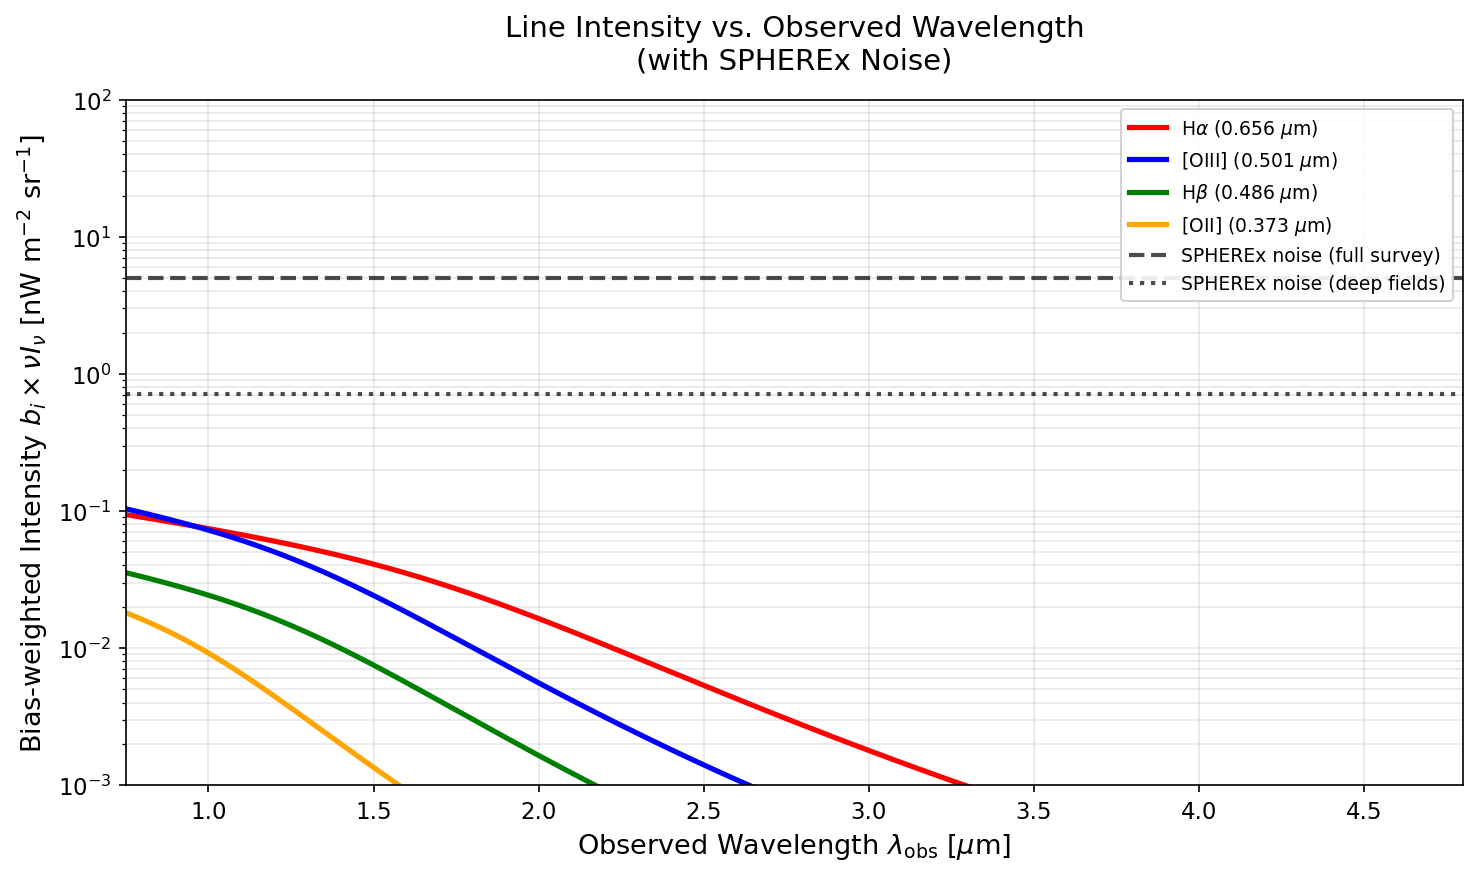
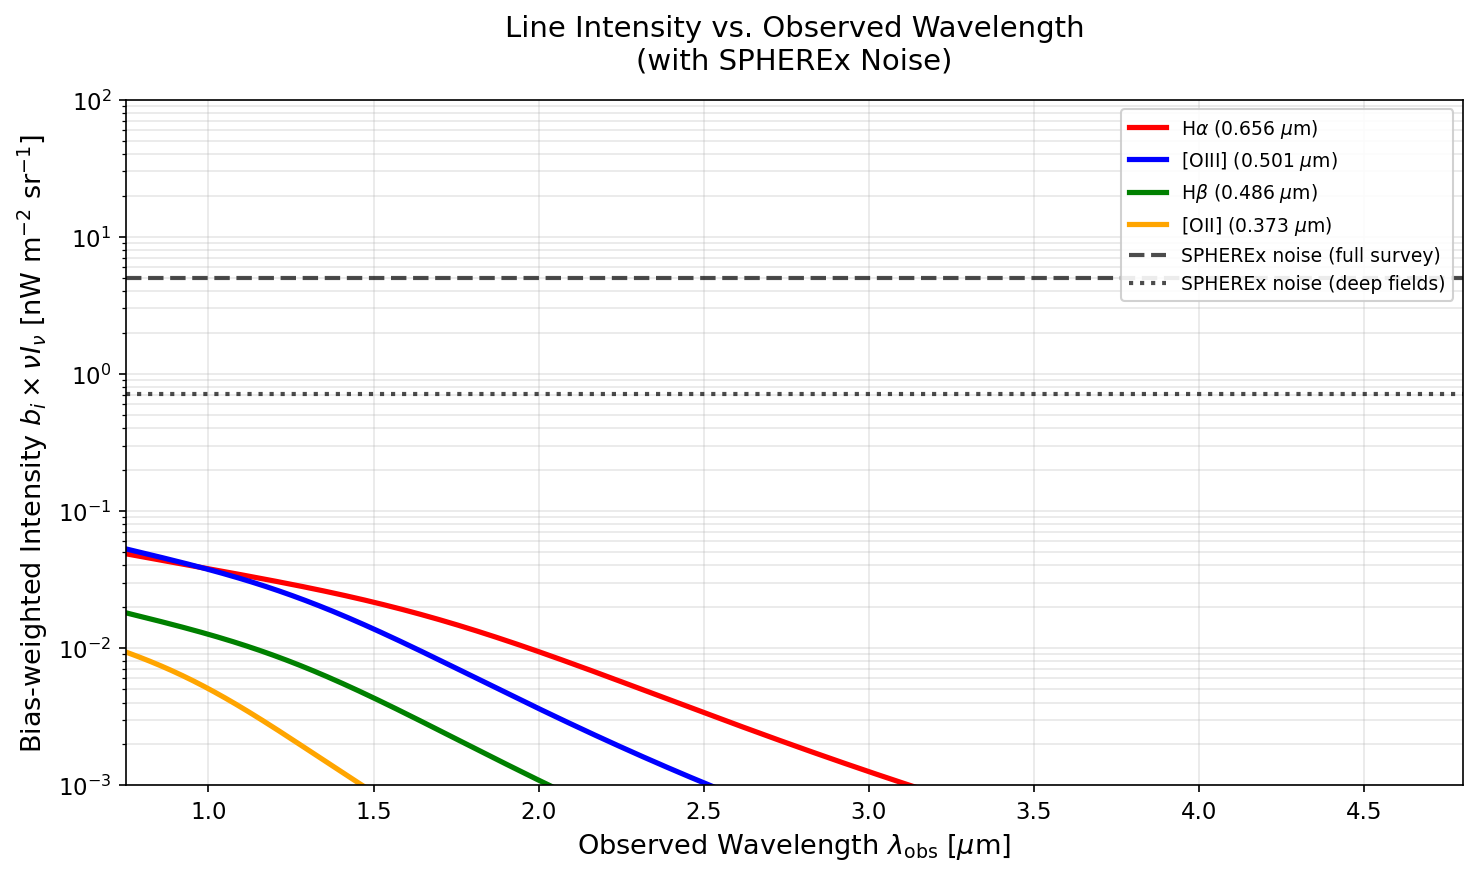
Replace bias approximation with full Sheth-Tormen calculation
- Implement halo-mass-weighted bias following Cheng et al. (2024) Eq. 19
- Use colossus library for Sheth-Tormen (1999) mass function
- Use Sheth, Mo & Tormen (2001) halo bias model
- Integrate over M = 10^10 to 10^16 M_sun/h using FoF mass definition
- Add colossus>=1.3.0 to requirements.txt

Results:
- Bias is smooth and monotonically increasing: b(z=0)=0.76 to b(z=6)=3.91
- All validation tests pass
- Updated figures match Cheng et al. (2024) Figure 2

https://claude.ai/code/session_015ESxc2dTLUM9pMW4D44Bo1

Changed region(s): [[0.0623, 0.5856, 0.654, 0.8938]]

diff --git a/src/lim_signal.py b/src/lim_signal.py
@@ -175,11 +175,16 @@ def get_line_luminosity_density(z, line='Halpha'):
 
 def get_halo_bias_simple(z):
     """
-    Compute halo-mass-weighted effective bias b(z) using a simple approximation.
+    Compute halo-mass-weighted effective bias b_i(z) using Sheth-Tormen formalism.
 
-    This uses a phenomenological fitting formula calibrated to simulations.
-    For a more accurate calculation, one would integrate over the halo mass
-    function weighted by line luminosity.
+    Implements the full halo-mass-weighted bias calculation following
+    Cheng et al. (2024) Eq. 19:
+
+        b_i(z) = ∫ dM (dn/dM)(M,z) b_h(M,z) / ∫ dM (dn/dM)(M,z)
+
+    where:
+    - dn/dM is the Sheth-Tormen (1999) halo mass function
+    - b_h(M,z) is the Sheth, Mo & Tormen (2001) halo bias
 
     Parameters
     ----------
@@ -189,41 +194,87 @@ def get_halo_bias_simple(z):
     Returns
     -------
     b_eff : float or array_like
-        Effective halo bias (dimensionless)
+        Halo-mass-weighted effective bias (dimensionless)
 
     Notes
     -----
-    We use the simple approximation from Fonseca et al. (2017):
-
-        b_eff(z) ≈ 0.84 + 0.61 × D(z=0) / D(z)
-
-    where D(z) is the linear growth factor. This captures the key feature
-    that bias increases with redshift as structure is less evolved.
+    This calculation assumes that line luminosity is roughly proportional
+    to halo mass (or equivalently, that we're integrating over the full
+    mass range of star-forming halos). The mass integration is performed
+    from M_min = 10^10 M_sun/h to M_max = 10^16 M_sun/h.
 
     For lines dominated by star-forming galaxies at z ~ 2, typical values
-    are b_eff ~ 2-3.
+    are b_eff ~ 2-3. The bias increases with redshift as structure becomes
+    less evolved.
 
-    A more sophisticated calculation would use:
-        b_eff(z) = ∫ dn/dM × b(M,z) × L_line(M,z) dM / ∫ dn/dM × L_line(M,z) dM
-
-    where dn/dM is the Sheth-Tormen halo mass function and b(M,z) is the
-    Sheth-Tormen bias (Sheth & Tormen 1999).
+    Uses the colossus library for numerically stable implementations of
+    the Sheth-Tormen mass function and bias.
 
     References
     ----------
-    Fonseca et al., MNRAS 464, 1948 (2017) — Eq. 21
-    Sheth & Tormen, MNRAS 308, 119 (1999) — Halo bias model
+    Cheng et al., Phys. Rev. D 109, 103011 (2024) — Eq. 19
+    Sheth & Tormen, MNRAS 308, 119 (1999) — Halo mass function
+    Sheth, Mo & Tormen, MNRAS 323, 1 (2001) — Halo bias
     """
+    try:
+        from colossus.cosmology import cosmology as colossus_cosmology
+        from colossus.lss import mass_function
+        from colossus.lss import bias as colossus_bias
+    except ImportError:
+        raise ImportError(
+            "colossus library required for Sheth-Tormen bias calculation. "
+            "Install with: pip install colossus"
+        )
+
     z = np.asarray(z)
+    scalar_input = z.ndim == 0
+    if scalar_input:
+        z = z[None]
 
-    # Get growth factor D(z) normalized to D(z=0) = 1
-    D_z = get_growth_factor(z)
-    D_0 = get_growth_factor(0.0)
+    # Initialize colossus cosmology (only once)
+    # Use Planck18 parameters to match our cosmology.py
+    try:
+        cosmo = colossus_cosmology.setCosmology('planck18')
+    except:
+        # If already set, just get it
+        cosmo = colossus_cosmology.getCurrent()
 
-    # Fonseca et al. (2017) fitting formula
-    # b_eff(z) ≈ 0.84 + 0.61 × D(0)/D(z)
-    b_eff = 0.84 + 0.61 * (D_0 / D_z)
+    b_eff = np.zeros_like(z, dtype=float)
 
+    # Mass range for integration (in M_sun/h)
+    M_min = 1e10  # M_sun/h
+    M_max = 1e16  # M_sun/h
+    n_mass = 100  # Number of mass samples for integration
+    M_array = np.logspace(np.log10(M_min), np.log10(M_max), n_mass)
+
+    for i, zi in enumerate(z):
+        # Get halo mass function dn/dM (units: h^4 Mpc^-3 M_sun^-1)
+        # Sheth-Tormen 1999 uses FoF mass definition
+        # Returns dn/dlnM, so we convert: dn/dM = (dn/dlnM) / M
+        mfunc = mass_function.massFunction(M_array, zi, mdef='fof', model='sheth99', q_out='dndlnM')
+        # mfunc is dn/dlnM, so dn/dM = (dn/dlnM) / M
+        dn_dM = mfunc / M_array  # h^4 Mpc^-3 M_sun^-1
+
+        # Get halo bias b_h(M,z) (dimensionless)
+        # Sheth, Mo & Tormen 2001 bias also uses FoF definition
+        b_h = colossus_bias.haloBias(M_array, model='sheth01', z=zi, mdef='fof')
+
+        # Integrate: numerator = ∫ (dn/dM) × b_h × dM
+        # Using log spacing for integration: ∫ f dM = ∫ f M d(ln M)
+        lnM = np.log(M_array)
+        numerator = integrate.simpson(dn_dM * b_h * M_array, x=lnM)
+
+        # Integrate: denominator = ∫ (dn/dM) × dM
+        denominator = integrate.simpson(dn_dM * M_array, x=lnM)
+
+        # Mass-weighted bias
+        if denominator > 0:
+            b_eff[i] = numerator / denominator
+        else:
+            b_eff[i] = 1.0  # fallback
+
+    if scalar_input:
+        return b_eff[0]
     return b_eff
 
 
